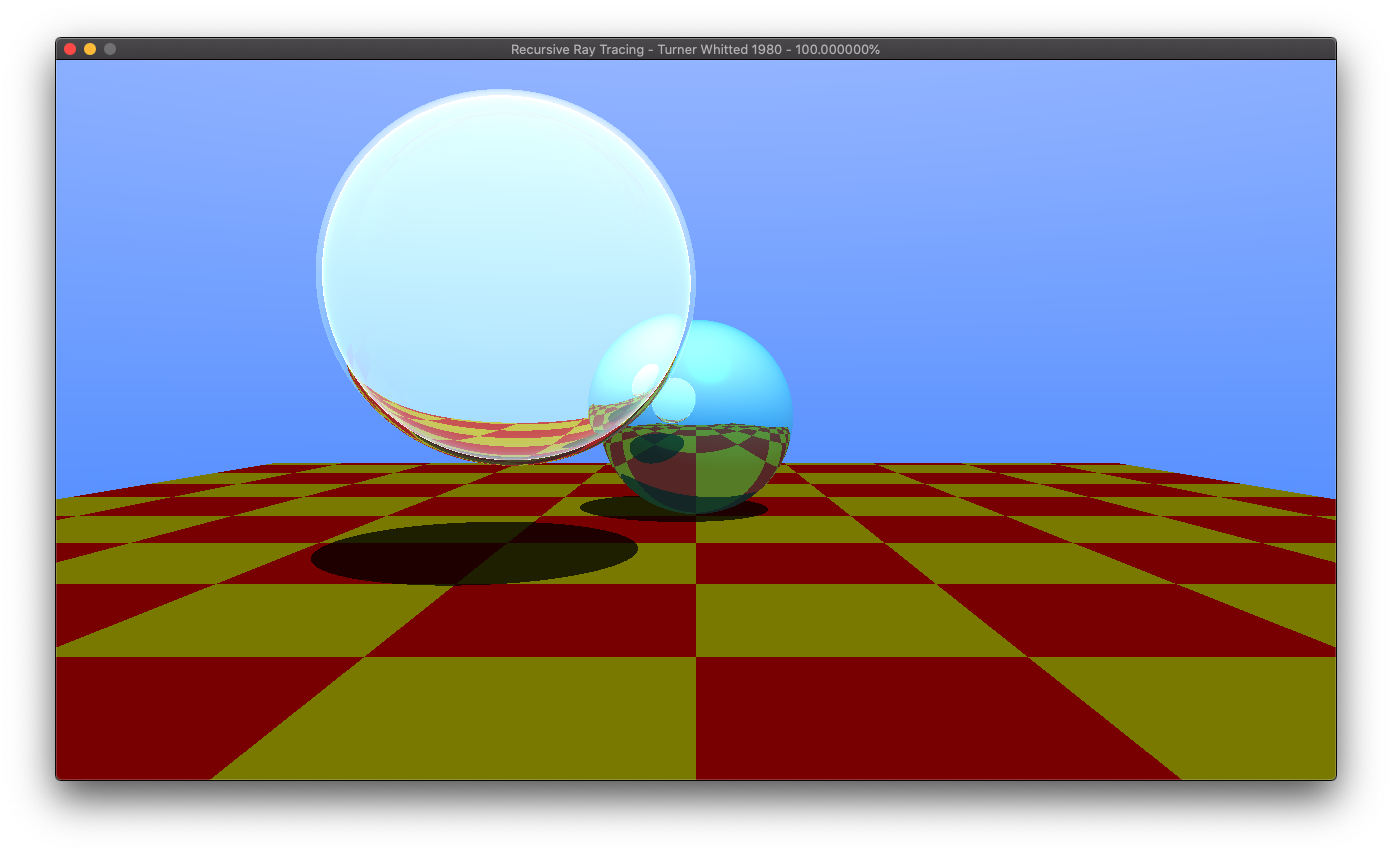
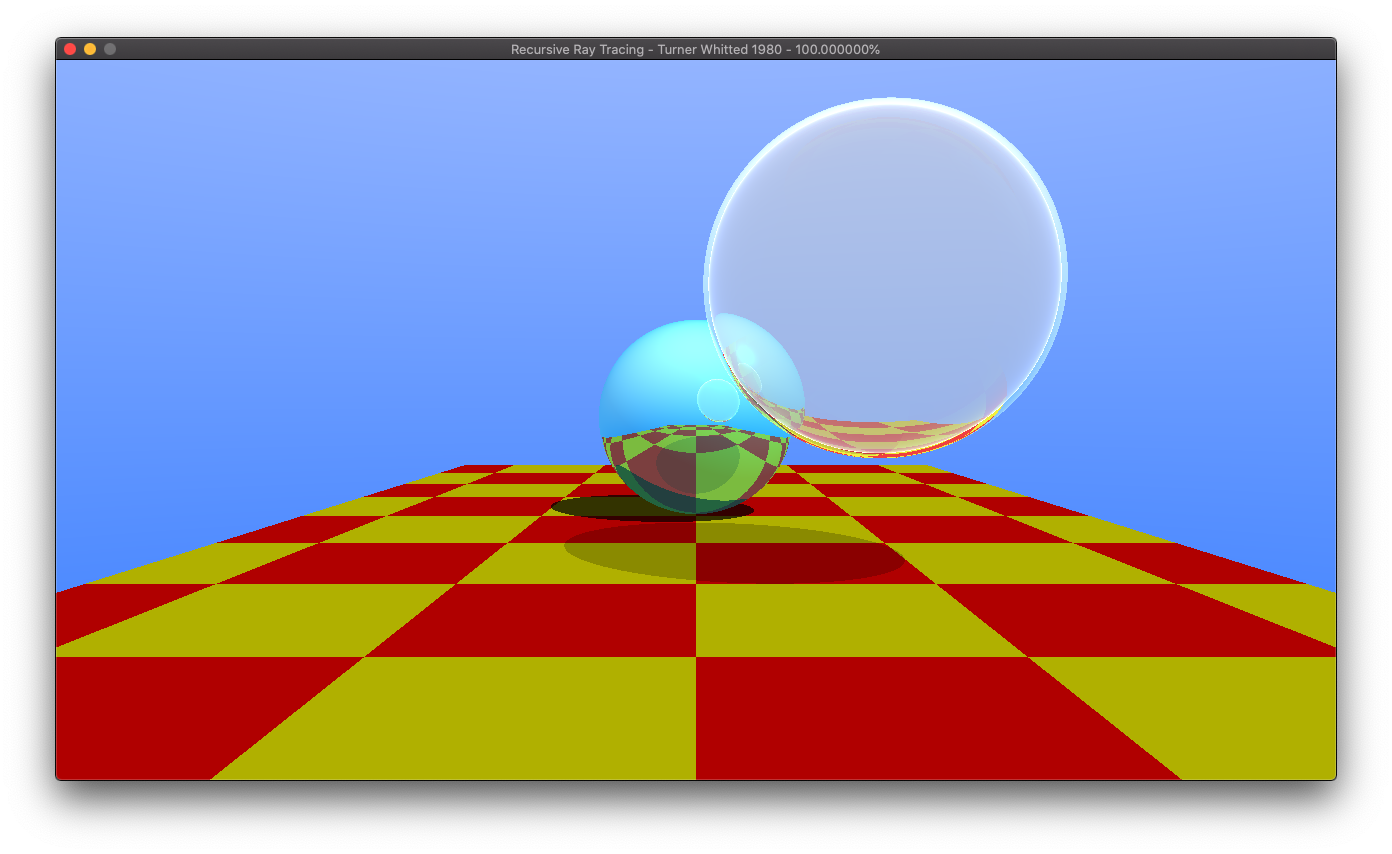
improve shadow of transparent object

diff --git a/1980.Whitted/code/Light.h b/1980.Whitted/code/Light.h
@@ -6,7 +6,7 @@ struct MyLight {
   float intensity = 2.0f;
 
   virtual Ray generateShadowRay(const glm::vec3& shadingPt) = 0;
-  virtual float shadingIntensity(const glm::vec3& shadingPt,
+  virtual float blinnPhongShading(const glm::vec3& shadingPt,
                                  const glm::vec3& normal,
                                  const glm::vec3& viewDir, float Kd, float Ks,
                                  float n) = 0;
@@ -23,7 +23,7 @@ struct PointLight : public MyLight {
     return Ray(shadingPt, L);
   }
 
-  virtual float shadingIntensity(const glm::vec3& shadingPt,
+  virtual float blinnPhongShading(const glm::vec3& shadingPt,
                                  const glm::vec3& normal,
                                  const glm::vec3& viewDir, float Kd, float Ks,
                                  float n) override {
@@ -41,7 +41,7 @@ struct PointLight : public MyLight {
       falloff = r * r;
     }
 
-    return ambient * falloff + intensity * falloff * I;
+    return intensity * falloff * I;
   }
 };
 
@@ -55,7 +55,7 @@ struct DirectionalLight : public MyLight {
     return Ray(shadingPt, L);
   }
 
-  virtual float shadingIntensity(const glm::vec3& shadingPt,
+  virtual float blinnPhongShading(const glm::vec3& shadingPt,
                                  const glm::vec3& normal,
                                  const glm::vec3& viewDir, float Kd, float Ks,
                                  float n) override {
@@ -65,6 +65,6 @@ struct DirectionalLight : public MyLight {
     float NdotL = glm::dot(normal, L);
 
     float I = Kd * std::max(0.0f, NdotL) + Ks * std::powf(NdotH, n);
-    return ambient + intensity * I;
+    return intensity * I;
   }
 };

diff --git a/1980.Whitted/code/Scene.h b/1980.Whitted/code/Scene.h
@@ -18,10 +18,11 @@ class Scene : public MyScene {
 
   virtual void init() override {
     // create objects
-    constexpr float S = 15;
+    constexpr float W = 8;
+    constexpr float H = 14;
     createObject<Parallelogram>("Floor")
-        .setParam(glm::vec3(S, 0, 0), glm::vec3(0, 0, S),
-                  glm::vec3(-S / 2, 0, -S / 2))
+        .setParam(glm::vec3(W, 0, 0), glm::vec3(0, 0, H),
+                  glm::vec3(-W / 2, 0, -H / 2))
         .createMaterial<Material>()
         .setCheckerTexture()
         .setParam(1.0f, 0.0f, 0.0f, 60, 1.0f);
@@ -34,11 +35,11 @@ class Scene : public MyScene {
         .setParam(0.3f, 0.7f, 0.0f, 120, 1.0f);
 
     createObject<Sphere>("GlassSphere")
-        .setCenter(glm::vec3(-1.25f, 2, -2))
-        .setRadius(1.25f)
+        .setCenter(glm::vec3(1.25f, 2, -2))
+        .setRadius(1.2f)
         .createMaterial<Material>()
         .setColor(glm::vec3(1))
-        .setParam(0.0f, 0.0f, 1.0f, 60, 1.03f);
+        .setParam(0.0f, 0.0f, 0.7f, 60, 1.03f);
 
 // create lights
 #if 0
@@ -47,9 +48,9 @@ class Scene : public MyScene {
     pointLgt->ambient = 0.15f;
     mLights.emplace_back(pointLgt);
 #else
-    auto dirLgt = std::make_shared<DirectionalLight>(glm::vec3(-1, -4, 2));
-    dirLgt->intensity = 0.85f;
-    dirLgt->ambient = 0.15f;
+    auto dirLgt = std::make_shared<DirectionalLight>(glm::vec3(-2, -4, 2));
+    dirLgt->intensity = 0.75f;
+    dirLgt->ambient = 0.25f;
     mLights.emplace_back(dirLgt);
 #endif
   }

diff --git a/1980.Whitted/code/WhittedRayTracer.cpp b/1980.Whitted/code/WhittedRayTracer.cpp
@@ -57,15 +57,21 @@ glm::vec3 WhittedRayTracer::_rayShading(Ray ray, MyScene* pScene, int depth) {
     Ray shadowRay = light->generateShadowRay(hitRec.p);
     HitRecord hitRecS;
     constexpr float SHADOW_E = 0.1f;
-    bool bShadow = pScene->closestHit(shadowRay, SHADOW_E, fMax, hitRecS);
 
-    if (!bShadow) {
-      Ia += light->shadingIntensity(hitRec.p, hitRec.normal, ray.direction,
-                                    mtl->Kd, mtl->Ks, mtl->n);
-    } else {
-      Ia += light->ambient;
-    }
+    float attenuation = 1.0f;
+    auto shadowHitCallback = [&attenuation](const HitRecord& hit) {
+      Material* mtl = dynamic_cast<Material*>(hit.mtl);
+      if (mtl) attenuation *= mtl->Kt;
+      return attenuation > 0.0f;
+    };
 
+    pScene->anyHit(shadowRay, SHADOW_E, fMax, shadowHitCallback);
+
+    float lgt = light->blinnPhongShading(hitRec.p, hitRec.normal, ray.direction,
+                                        mtl->Kd, mtl->Ks, mtl->n);
+
+    Ia += light->ambient;
+    Ia += lgt * attenuation;
   }  // end of for each light
   color = Ia * albedo;
 

diff --git a/common/scene/MyScene.h b/common/scene/MyScene.h
@@ -21,7 +21,22 @@ class MyScene {
     return *newObject;
   }
 
-  virtual bool closestHit(const Ray& ray, float tMin, float tMax, HitRecord& outRec);
+  bool closestHit(const Ray& ray, float tMin, float tMax, HitRecord& outRec);
+
+  template <typename T>
+  bool anyHit(const Ray& ray, float tMin, float tMax, T callback) {
+    bool hitAnything = false;
+    HitRecord rec;
+
+    for (auto& obj : mObjects) {
+      if (obj->hit(ray, tMin, tMax, rec)) {
+        hitAnything = true;
+        if (callback(rec)) break;
+      }
+    }  // end of for
+
+    return hitAnything;
+  }
 
  protected:
   std::list<MySceneObject::Ptr> mObjects;

diff --git a/1968.Appel/code/RayCastingRenderer.cpp b/1968.Appel/code/RayCastingRenderer.cpp
@@ -45,7 +45,10 @@ void RayCastingRenderer::_drawSinglePixel(int x, int y, MyScene* pScene) {
   Ray shadowRay = _generateShadowRay(hitRec.p);
   HitRecord hitRecS;
   constexpr float SHADOW_E = 0.1f;
-  bool bShadow = pScene->closestHit(shadowRay, SHADOW_E, fMax, hitRecS);
+
+  auto stopWithAnyHit = [](const HitRecord&) { return true; };
+
+  bool bShadow = pScene->anyHit(shadowRay, SHADOW_E, fMax, stopWithAnyHit);
   if (bShadow) {
     color = glm::vec4(0, 0, 0, 1);
   } else {
